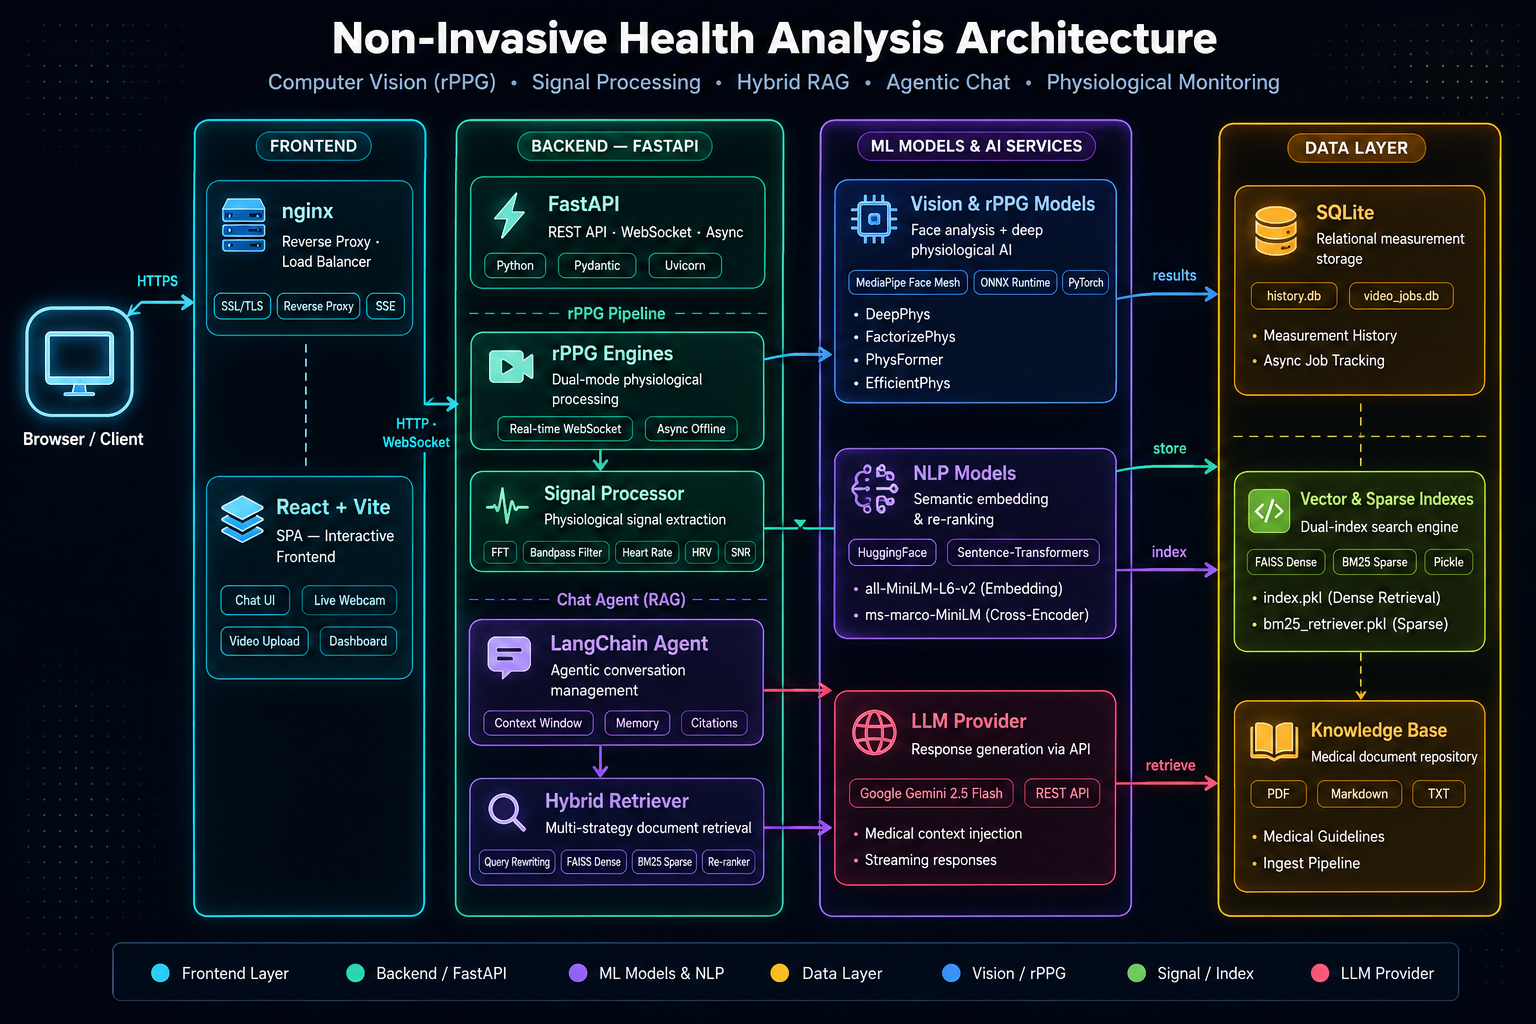
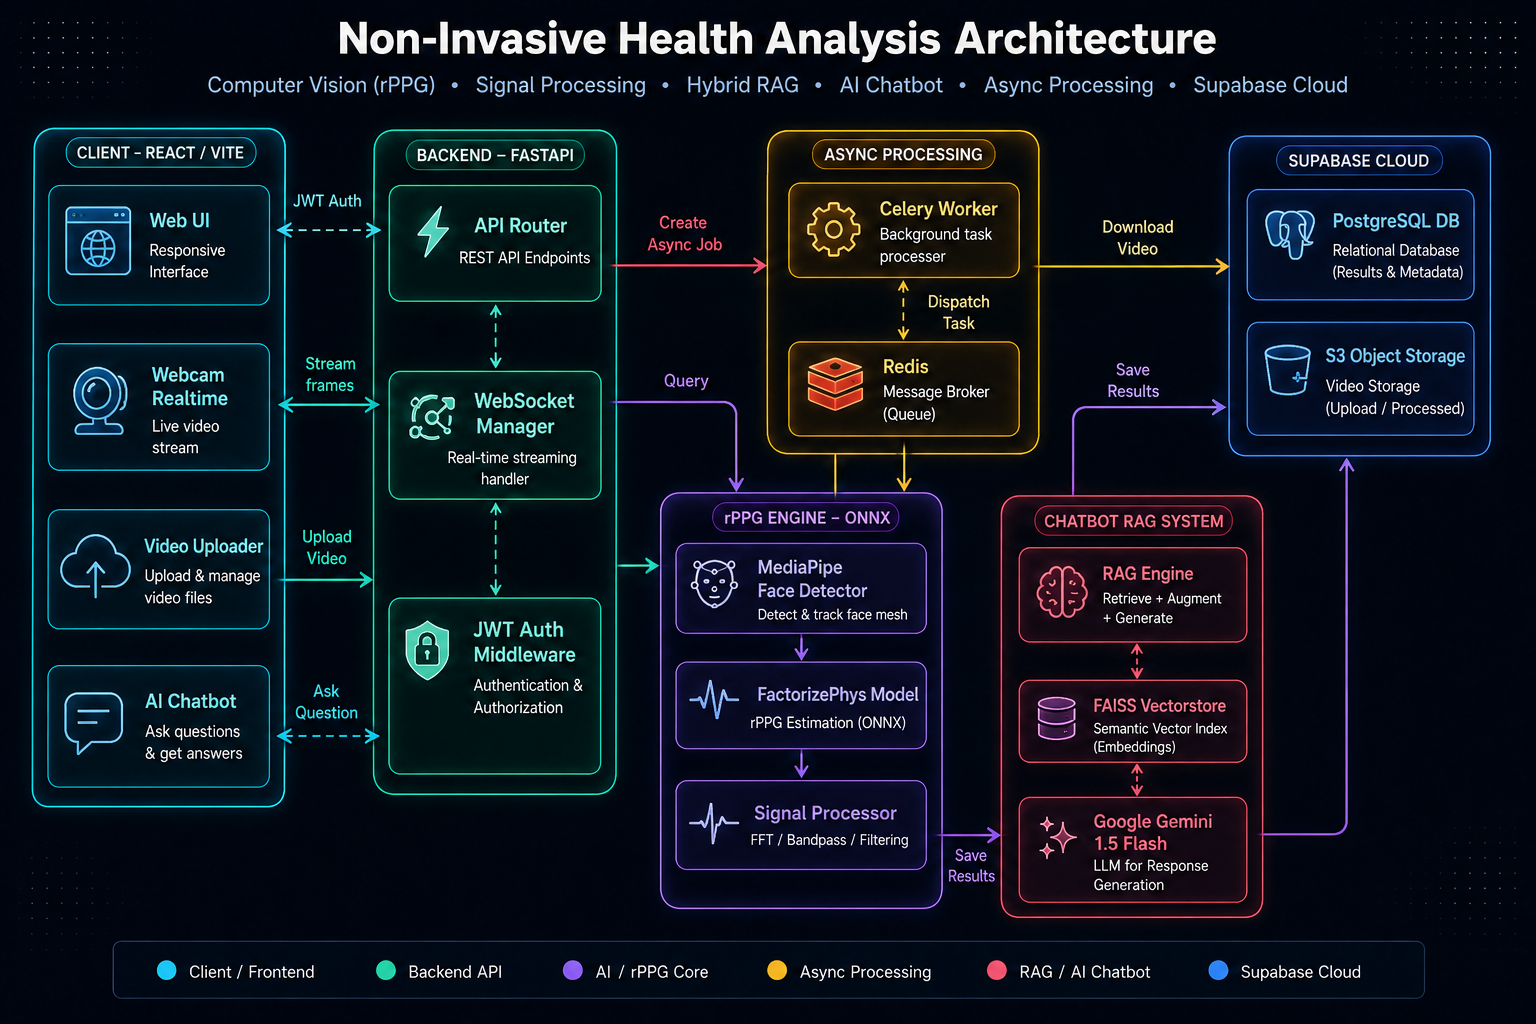
add architecture

diff --git a/README.md b/README.md
@@ -13,71 +13,7 @@ A non-invasive biometric measurement system from facial videos — extracting he
 
 ## 🏗 System Architecture
 
-```mermaid
-graph TD
-    %% Frontend
-    subgraph Frontend [Client - React/Vite]
-        UI[Web UI]
-        Webcam[Webcam Realtime]
-        Uploader[Video Uploader]
-        ChatWidget[AI Chatbot]
-    end
-
-    %% Backend API
-    subgraph Backend [Backend - FastAPI]
-        API[API Router]
-        WS[WebSocket Manager]
-        Auth[JWT Auth Middleware]
-    end
-
-    %% rPPG Core
-    subgraph AI_Core [rPPG Engine - ONNX]
-        FaceMesh[MediaPipe Face Detector]
-        Model[FactorizePhys Model]
-        DSP[Signal Processor - FFT/Bandpass]
-    end
-
-    %% Background Processing
-    subgraph Worker [Async Processing]
-        Celery[Celery Worker]
-        Redis[(Redis Message Broker)]
-    end
-
-    %% Chatbot RAG
-    subgraph RAG [Chatbot RAG System]
-        Engine[RAG Engine]
-        FAISS[(FAISS Vectorstore)]
-        Gemini[Google Gemini 1.5 Flash]
-    end
-
-    %% Supabase Cloud
-    subgraph Cloud [Supabase Cloud]
-        DB[(PostgreSQL DB)]
-        Storage[(S3 Object Storage)]
-    end
-
-    %% Connections
-    UI <-->|JWT Auth| Auth
-    Webcam <-->|Stream frames| WS
-    Uploader -->|Upload Video| API
-    ChatWidget <-->|Ask Question| API
-
-    API <--> Auth
-    API -->|Create Async Job| Redis
-    Redis -->|Dispatch Task| Celery
-
-    WS --> FaceMesh
-    Celery -->|Download Video| Storage
-    Celery --> FaceMesh
-
-    FaceMesh --> Model
-    Model --> DSP
-    DSP -->|Save Results| DB
-
-    API --> Engine
-    Engine <--> FAISS
-    Engine <--> Gemini
-```
+![ARCHITECTURE](.figures\architecture.png)
 
 The system is designed with 4 main layers:
 - **Computer Vision & rPPG**: Use MediaPipe for Face Mesh, combined with ONNX Runtime to run the advanced rPPG deep learning model (FactorizePhys).
